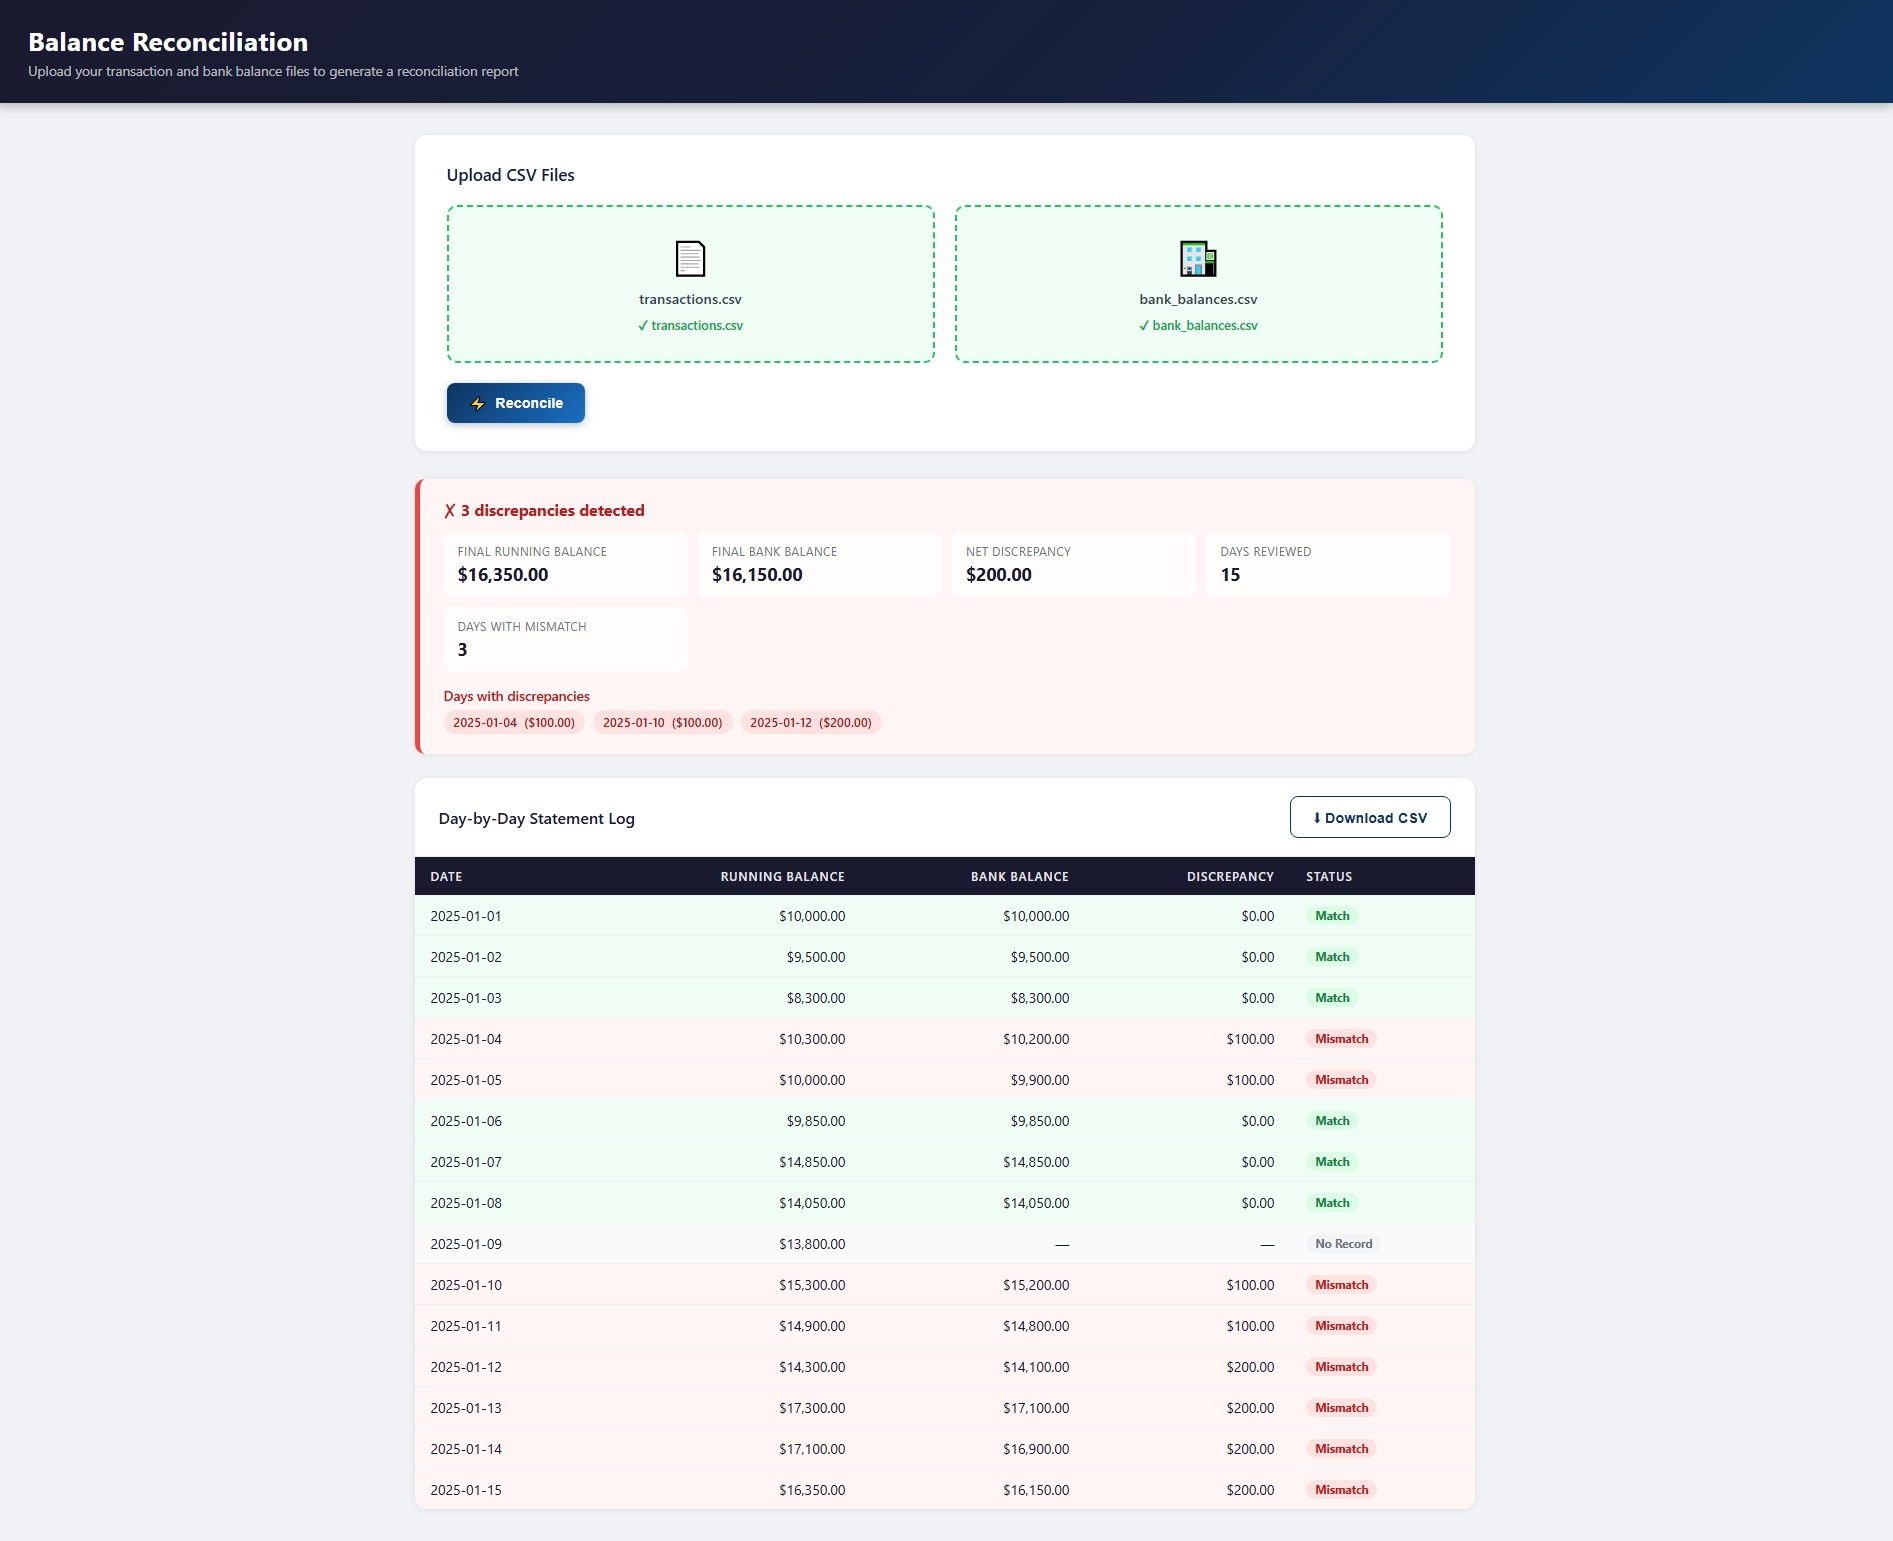
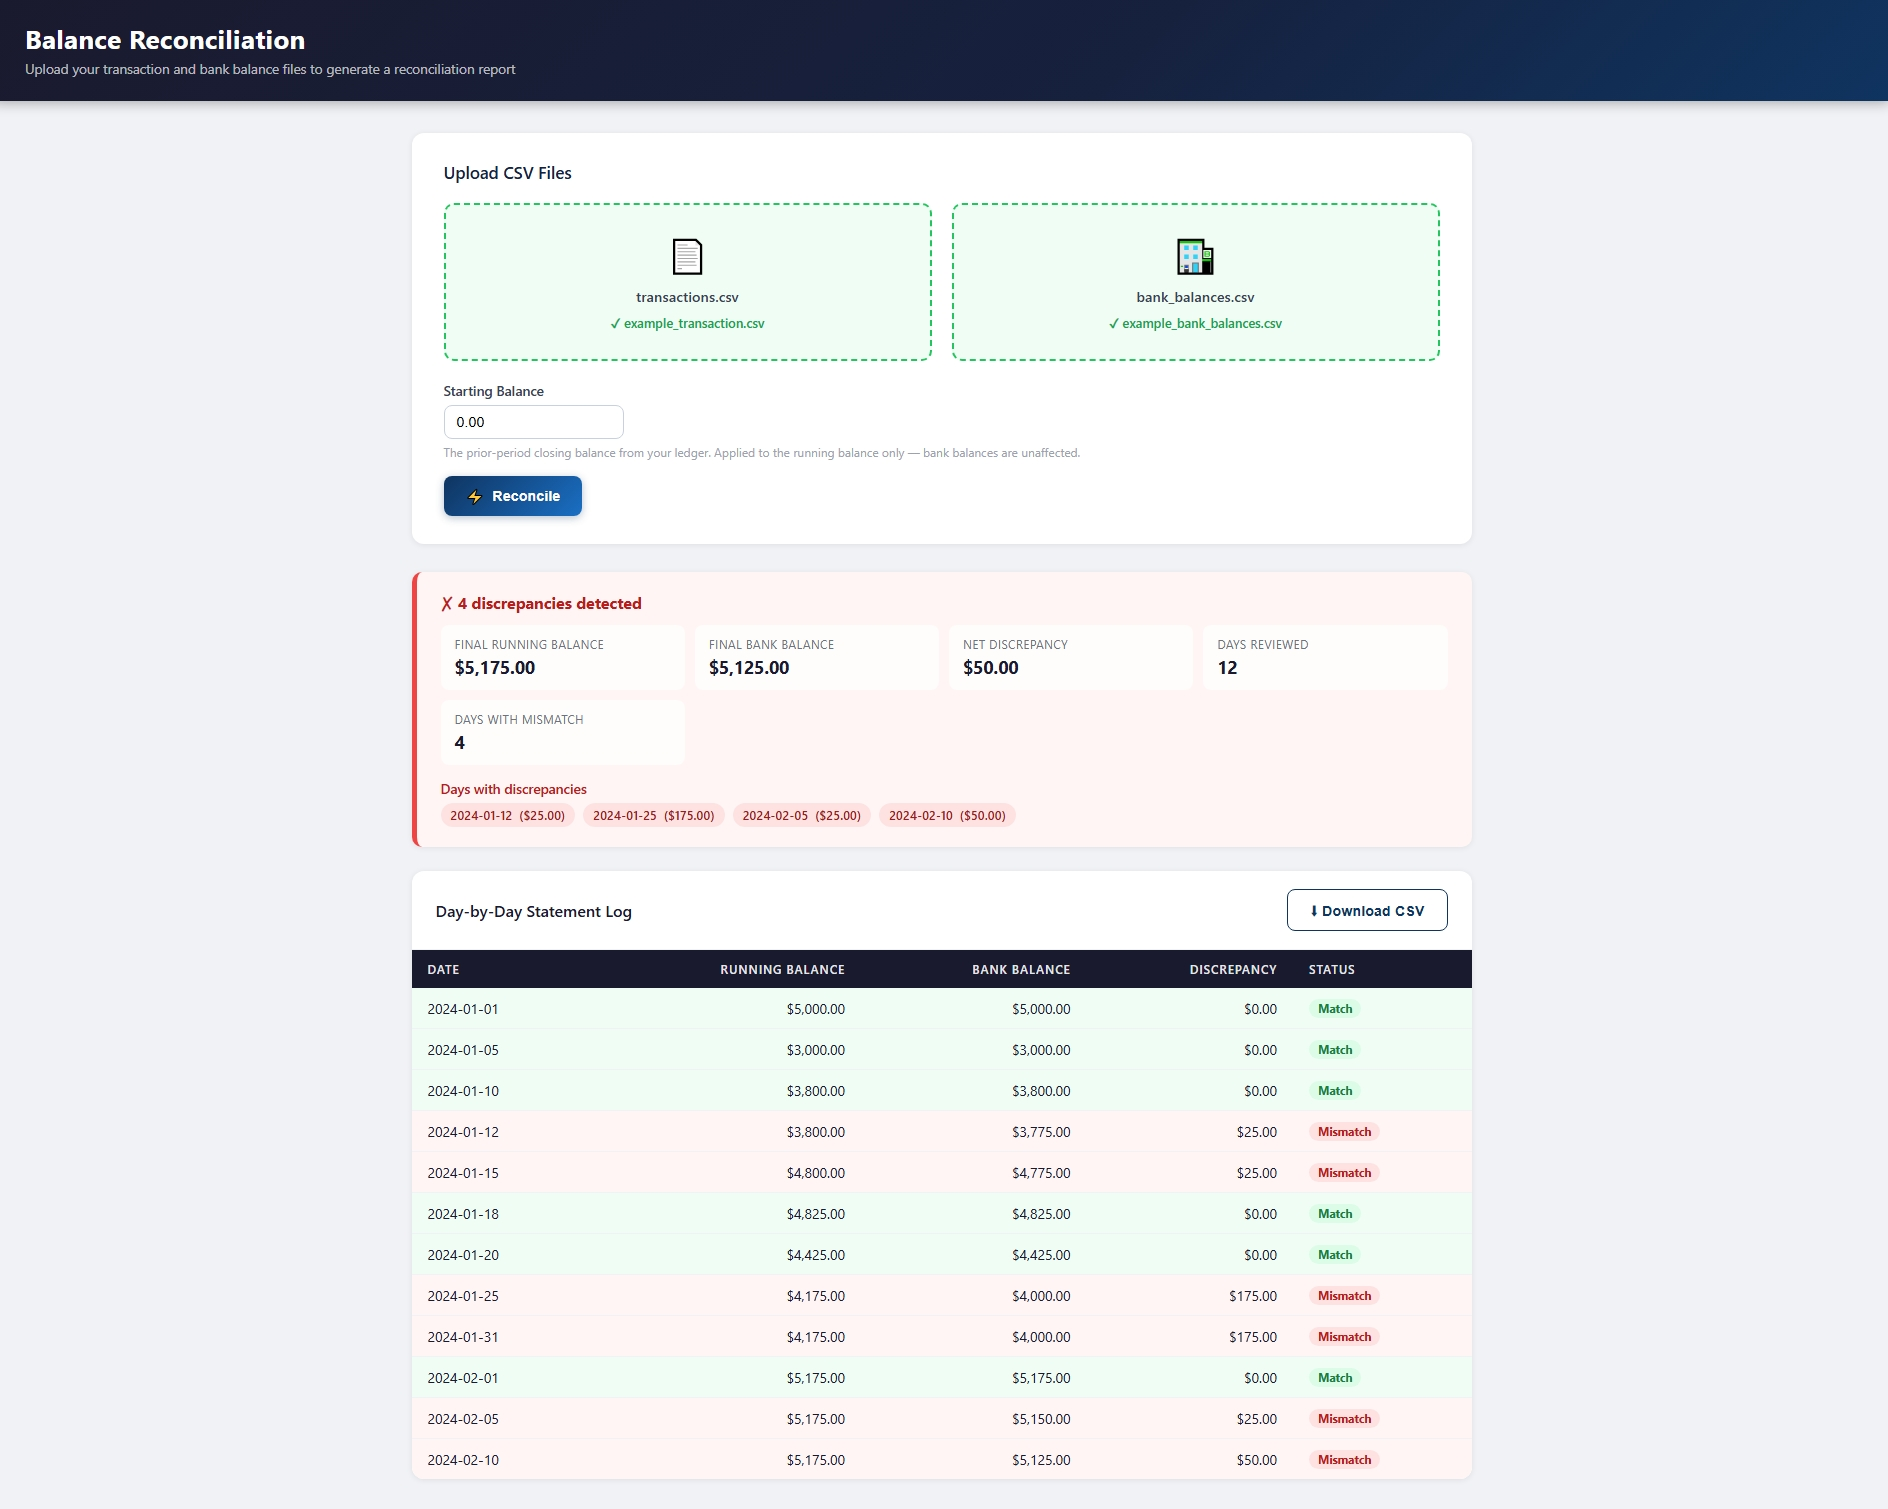
vommitws

diff --git a/main.py b/main.py
@@ -7,10 +7,12 @@ from dateutil import parser as dateutil_parser
 
 
 def _clean_number(value: str) -> float:
-    # strips whitespace, currency symbols ($£€¥₹₩₪ etc), and commas from formatted numbers
-    # supports: leading minus (-250.00), accounting parens ((250.00)), trailing minus (250.00-)
-    # params: value (str) — raw cell value from CSV
-    # returns: float
+    """
+    strips whitespace, currency symbols ($£€¥₹₩₪ etc), and commas from formatted numbers
+    supports: leading minus (-250.00), accounting parens ((250.00)), trailing minus (250.00-)
+    params: value (str) — raw cell value from CSV
+    returns: float
+    """
     stripped = value.strip()
     # edge case: accounting parens mean negative: (250.00) → -250.00
     if stripped.startswith('(') and stripped.endswith(')'):
@@ -26,8 +28,10 @@ def _clean_number(value: str) -> float:
 
 
 def _parse_date(raw: str) -> str:
-    # validates and normalizes a raw date cell to YYYY-MM-DD
-    # raises: ValueError for empty or placeholder values (e.g. "N/A", "-")
+    """
+    validates and normalizes a raw date cell to YYYY-MM-DD
+    raises: ValueError for empty or placeholder values (e.g. "N/A", "-")
+    """
     date = raw.strip()
     if not date or not any(c.isdigit() for c in date):
         raise ValueError(f"invalid date value: {date!r}")
@@ -35,10 +39,12 @@ def _parse_date(raw: str) -> str:
 
 
 def _make_reader(text: str) -> csv.DictReader:
-    # wraps text in a DictReader and strips whitespace from column headers
-    # params: text (str) — full CSV text
-    # returns: csv.DictReader ready to iterate
-    # raises: ValueError if the CSV has no header row
+    """
+    wraps text in a DictReader and strips whitespace from column headers
+    params: text (str) — full CSV text
+    returns: csv.DictReader ready to iterate
+    raises: ValueError if the CSV has no header row
+    """
     reader = csv.DictReader(io.StringIO(text))
     # user uploaded empty file
     if reader.fieldnames is None:
@@ -51,32 +57,34 @@ def _make_reader(text: str) -> csv.DictReader:
 
 
 def _parse_totals(tx_text: str) -> defaultdict[str, float]:
-    # sums transaction amounts per date from a transactions CSV string
-    # params: tx_text (str) — full CSV text with 'date' and 'amount' columns
-    # returns: defaultdict(float) keyed by date string, value is net amount for that date
+    """
+    sums transaction amounts per date from a transactions CSV string
+    params: tx_text (str) — full CSV text with 'date' and 'amount' columns
+    returns: defaultdict(float) keyed by date string, value is net amount for that date
+    """
     totals: defaultdict[str, float] = defaultdict(float)
     for row in _make_reader(tx_text):
         try:
             date = _parse_date(row["date"])
             totals[date] += _clean_number(row["amount"])
         except (ValueError, KeyError, AttributeError) as e:
-            # row.get('date') instead of date — date was never assigned if the KeyError was on row["date"]
             raise ValueError(f"Row {(row.get('date') or '').strip() or 'unknown'}: {e}") from e
     return totals
 
 
 def _parse_bank(bank_text: str) -> dict[str, float]:
-    # parses bank balance snapshots from a bank balances CSV string
-    # params: bank_text (str) — full CSV text with 'date' and 'balance' columns
-    # returns: dict keyed by date string, value is the bank balance for that date
-    # raises: ValueError if the same date appears more than once
+    """
+    parses bank balance snapshots from a bank balances CSV string
+    params: bank_text (str) — full CSV text with 'date' and 'balance' columns
+    returns: dict keyed by date string, value is the bank balance for that date
+    raises: ValueError if the same date appears more than once
+    """
     bank: dict[str, float] = {}
     for row in _make_reader(bank_text):
         try:
             date = _parse_date(row["date"])
             balance = _clean_number(row["balance"])
         except (ValueError, KeyError, AttributeError) as e:
-            # row.get('date') instead of date — date was never assigned if the KeyError was on row["date"]
             raise ValueError(f"Row {(row.get('date') or '').strip() or 'unknown'}: {e}") from e
         if date in bank:
             raise ValueError(f"Duplicate date in bank balances: {date}")
@@ -85,11 +93,13 @@ def _parse_bank(bank_text: str) -> dict[str, float]:
 
 
 def _opening_warning(first_date: str, opening_tx: float, opening_bank: float | None) -> str | None:
-    # checks whether the first date's transaction total matches the bank's opening balance
-    # params: first_date (str) — earliest date across both inputs
-    #         opening_tx (float) — sum of transactions on that date
-    #         opening_bank (float | None) — bank balance on that date, or None if absent
-    # returns: str warning message if there is a mismatch, None otherwise
+    """
+    checks whether the first date's transaction total matches the bank's opening balance
+    params: first_date (str) — earliest date across both inputs
+            opening_tx (float) — sum of transactions on that date
+            opening_bank (float | None) — bank balance on that date, or None if absent
+    returns: str warning message if there is a mismatch, None otherwise
+    """
     if opening_bank is not None and round(opening_tx - opening_bank, 2) != 0:
         return (
             f"Opening balance mismatch on {first_date}: "
@@ -99,17 +109,19 @@ def _opening_warning(first_date: str, opening_tx: float, opening_bank: float | N
     return None
 
 
-def _classify(
+def _evaluate_discrepancy(
     discrepancy: float,
     open_discrepancy: float | None,
     mismatch_count: int,
 ) -> tuple[str, float | None, int]:
-    # determines the status for a single date and updates mismatch tracking state
-    # params: discrepancy (float) — running balance minus bank balance for this date
-    #         open_discrepancy (float | None) — the active gap amount from prior dates;
-    #                                           None means the last comparison was clean
-    #         mismatch_count (int) — running count of distinct discrepancy events so far
-    # returns: tuple of (status (str), new_open_discrepancy (float | None), new_mismatch_count (int))
+    """
+    determines the status for a single date and updates mismatch tracking state
+    params: discrepancy (float) — running balance minus bank balance for this date
+            open_discrepancy (float | None) — the active gap amount from prior dates;
+                                              None means the last comparison was clean
+            mismatch_count (int) — running count of distinct discrepancy events so far
+    returns: tuple of (status (str), new_open_discrepancy (float | None), new_mismatch_count (int))
+    """
     if discrepancy == 0:
         return "OK", None, mismatch_count
     # same gap as the prior date — continuation, not a new event, so mismatch_count stays unchanged
@@ -139,7 +151,7 @@ def reconcile_data(tx_text: str, bank_text: str, starting_balance: float = 0.0) 
 
     running_balance = starting_balance
     mismatch_count = 0
-    open_discrepancy: float | None = None # used by _classify to decide whether a non-zero discrepancy is a continuation
+    open_discrepancy: float | None = None # used by _evaluate_discrepancy to decide whether a non-zero discrepancy is a continuation
     last_seen_discrepancy = 0.0
     final_bank_balance: float | None = None
     rows: list[dict[str, Any]] = []
@@ -164,7 +176,7 @@ def reconcile_data(tx_text: str, bank_text: str, starting_balance: float = 0.0) 
             discrepancy_log.append({"date": d, "discrepancy": discrepancy})
         last_seen_discrepancy = discrepancy
 
-        status, open_discrepancy, mismatch_count = _classify(discrepancy, open_discrepancy, mismatch_count)
+        status, open_discrepancy, mismatch_count = _evaluate_discrepancy(discrepancy, open_discrepancy, mismatch_count)
         rows.append({"date": d, "running": running_balance, "bank": bank_balance, "status": status, "discrepancy": discrepancy})
 
     net_discrepancy = round(running_balance - final_bank_balance, 2) if final_bank_balance is not None else None

diff --git a/test_reconcile.py b/test_reconcile.py
@@ -608,3 +608,80 @@ class TestFloatingPointAccumulation:
         assert result["rows"][0]["discrepancy"] == 0.0
         assert result["rows"][1]["discrepancy"] == 0.0
         assert result["rows"][2]["discrepancy"] == 0.0
+
+
+# ── 17. Complex discrepancy scenario ─────────────────────────────────────────
+
+class TestComplexDiscrepancy:
+    """
+    Realistic month-end reconciliation:
+      Jan 01 — opening deposit $5,000                        → running $5,000  OK
+      Jan 05 — payroll debit -$2,000                         → running $3,000  OK
+      Jan 10 — two revenue credits $500 + $300               → running $3,800  OK
+      Jan 12 — bank fee $25 (bank-only, no ledger entry)     → running $3,800  MISMATCH +25
+      Jan 15 — client payment $1,000                         → running $4,800  MISMATCH +25 (same gap)
+      Jan 18 — correction entry $25 (fee now booked)         → running $4,825  OK (gap resolved)
+      Jan 20 — supplier payment -$400                        → running $4,425  OK
+      Jan 25 — two expenses -$150 and -$100 (one misbooked)  → running $4,175  MISMATCH +175
+      Jan 31 — bank-only month-end snapshot                  → running $4,175  MISMATCH +175 (same gap)
+
+    Expected: mismatch_count=2, two discrepancy log entries (+25 then +175),
+              net_discrepancy=+175 at month end.
+    """
+
+    T = tx(
+        ("2024-01-01", "5000"),
+        ("2024-01-05", "-2000"),
+        ("2024-01-10", "500"),
+        ("2024-01-10", "300"),
+        ("2024-01-15", "1000"),
+        ("2024-01-18", "25"),
+        ("2024-01-20", "-400"),
+        ("2024-01-25", "-150"),
+        ("2024-01-25", "-100"),
+    )
+    B = bk(
+        ("2024-01-01", "5000"),
+        ("2024-01-05", "3000"),
+        ("2024-01-10", "3800"),
+        ("2024-01-12", "3775"),   # bank fee of $25 not in ledger → gap opens
+        ("2024-01-15", "4775"),   # gap persists: running=4800, bank=4775
+        ("2024-01-18", "4825"),   # correction booked → gap closes
+        ("2024-01-20", "4425"),
+        ("2024-01-25", "4000"),   # misbooked expense: running=4175, bank=4000
+        ("2024-01-31", "4000"),   # month-end snapshot, gap still open
+    )
+
+    def test_row_count(self):
+        result = reconcile_data(self.T, self.B)
+        assert len(result["rows"]) == 9
+
+    def test_status_sequence(self):
+        result = reconcile_data(self.T, self.B)
+        assert statuses(result) == [
+            "OK", "OK", "OK",
+            "MISMATCH", "MISMATCH",
+            "OK", "OK",
+            "MISMATCH", "MISMATCH",
+        ]
+
+    def test_two_distinct_mismatch_events(self):
+        result = reconcile_data(self.T, self.B)
+        assert result["mismatch_count"] == 2
+
+    def test_discrepancy_log_values(self):
+        result = reconcile_data(self.T, self.B)
+        log = result["summary"]["discrepancies"]
+        assert len(log) == 2
+        assert log[0]["discrepancy"] == 25.0
+        assert log[1]["discrepancy"] == 175.0
+
+    def test_gap_resolves_on_jan18(self):
+        result = reconcile_data(self.T, self.B)
+        jan18 = next(r for r in result["rows"] if r["date"] == "2024-01-18")
+        assert jan18["status"] == "OK"
+        assert jan18["discrepancy"] == 0.0
+
+    def test_net_discrepancy_at_month_end(self):
+        result = reconcile_data(self.T, self.B)
+        assert result["summary"]["net_discrepancy"] == 175.0